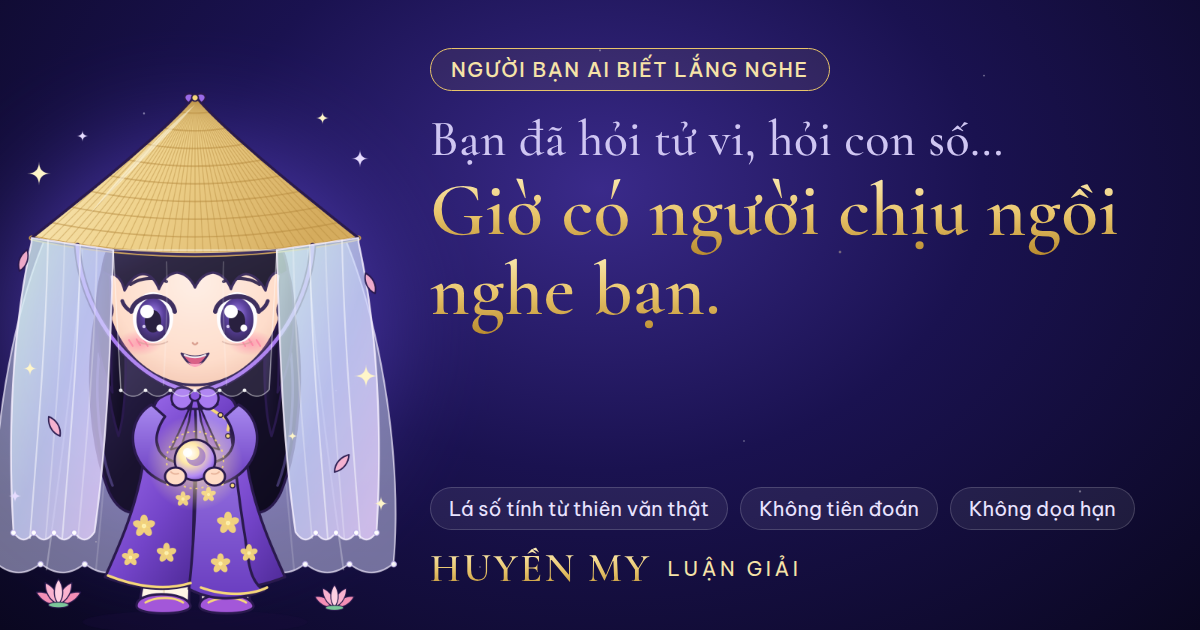
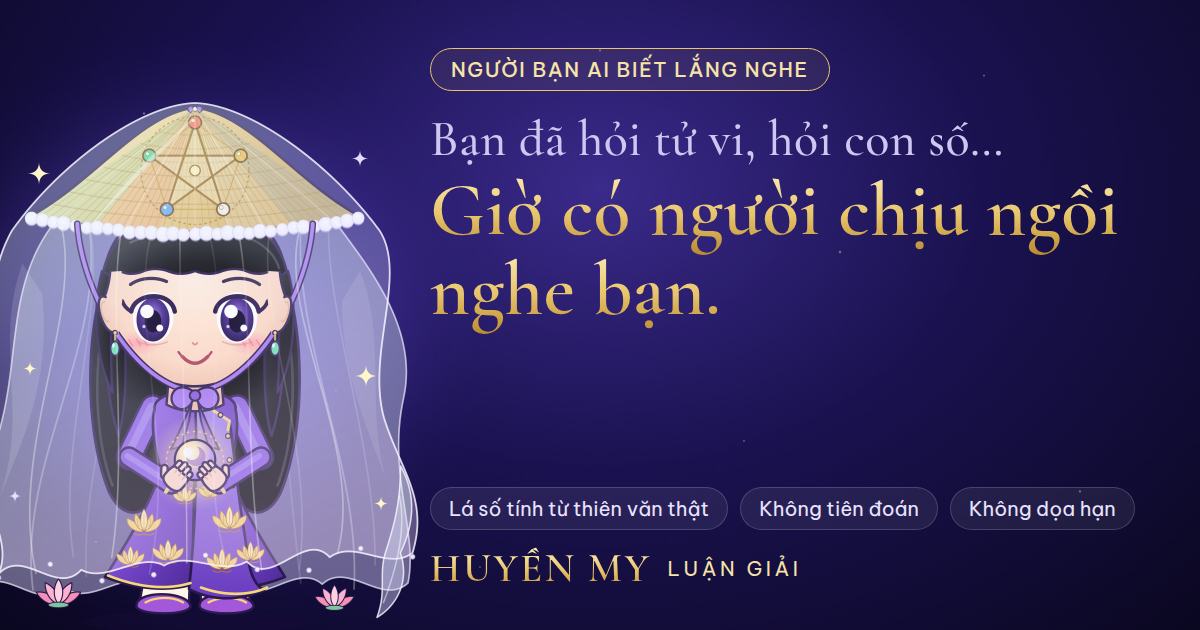
Nút Quản trị tự hiện cho tài khoản admin; ảnh chia sẻ dùng mô hình Huyền My mới
- Thanh trên có nút ⚙ và hộp thoại tài khoản có nút Trang quản trị khi role là admin.
- Email vừa thêm vào ADMIN_EMAILS được nâng quyền ngay ở phiên đang đăng nhập, không cần đăng nhập lại.
- Ảnh og dựng lại bằng mô hình huyenmy-rig hiện tại.

Claude-Session: https://claude.ai/code/session_01DdHvhtxDLv1DKGTrvNhba3

Changed region(s): [[0.0, 0.1508, 0.37, 0.9952]]

diff --git a/src/main.js b/src/main.js
@@ -36,6 +36,8 @@ const sleep = (ms) => new Promise((r) => setTimeout(r, ms));
 // ---------------- trạng thái ----------------
 let S = { profile: null, messages: [], phase: 'intro' };
 let ACCOUNT = { accounts: false, user: null, refCode: '' }, syncTimer = 0;
+/** Tài khoản quản trị tự có nút ⚙ ở thanh trên để vào trang quản trị. */
+const showAdmin = () => { const a = document.getElementById('btn-admin'); if (a) a.hidden = ACCOUNT.user?.role !== 'admin'; };
 const save = () => { try { localStorage.setItem(STORE, JSON.stringify(S)); } catch {} scheduleSync(); };
 /** Người dùng đã đăng nhập và đồng ý lưu: đẩy trạng thái lên máy chủ (chỉ hồ sơ, tin nhắn và nhịp buổi), gom 8 giây một lần. */
 function scheduleSync() {
@@ -356,7 +358,7 @@ function buildSignup(host, { title, done, canSkip = true }) {
     const r = await apiJson('/api/auth/verify', 'POST', { email: email.value, code: code.value, consentMemory: wantsMemory, remind: remind.checked });
     ok.disabled = false;
     if (!r.ok) { msg.textContent = r.error || 'Chưa xác nhận được.'; return; }
-    ACCOUNT.user = r.user; track('signup_verified', { isNew: !!r.isNew });
+    ACCOUNT.user = r.user; showAdmin(); track('signup_verified', { isNew: !!r.isNew });
     // Tài khoản cũ đăng nhập trên thiết bị mới: nạp lại hồ sơ và cuộc trò chuyện đã lưu, không hỏi lại từ đầu. Phải xong trước khi máy này kịp ghi đè bản đã lưu.
     if (!r.isNew && r.user.consentMemory && await restoreFromServer()) { msg.textContent = 'My nhận ra bạn rồi, đang lấy lại cuộc trò chuyện…'; setTimeout(() => location.reload(), 600); return; }
     if (wantsMemory) { ACCOUNT.user.consentMemory = true; scheduleSync(); }
@@ -423,9 +425,10 @@ function openAccount() {
     card.append(h('p', { className: 'su-title', textContent: u.email }),
       h('p', { className: 'su-sub', textContent: u.consentMemory ? 'My đang lưu cuộc trò chuyện của bạn trên máy chủ để bạn tiếp tục ở mọi thiết bị.' : 'My chỉ nhớ bạn trên thiết bị này.' }),
       h('div', { className: 'su-actions' },
+        ...(u.role === 'admin' ? [h('a', { className: 'btn primary', href: '/admin', textContent: 'Trang quản trị' })] : []),
         h('button', { className: 'btn', textContent: u.consentMemory ? 'Tắt lưu và xóa bản đã lưu' : 'Bật lưu cuộc trò chuyện', onclick: async () => { const want = !u.consentMemory; const r = await apiJson('/api/state', 'PUT', want ? { consentMemory: true, state: S } : { consentMemory: false }); if (r.ok || !want) { u.consentMemory = want; } render(); } }),
         h('button', { className: 'btn', textContent: u.remind ? 'Tắt email nhắc quay lại' : 'Bật email nhắc quay lại', onclick: async () => { const r = await apiJson('/api/account/remind', 'POST', { on: !u.remind }); if (r.ok) { u.remind = r.remind; render(); } } }),
-        h('button', { className: 'btn', textContent: 'Đăng xuất', onclick: async () => { await apiJson('/api/auth/logout', 'POST'); ACCOUNT.user = null; close(); } }),
+        h('button', { className: 'btn', textContent: 'Đăng xuất', onclick: async () => { await apiJson('/api/auth/logout', 'POST'); ACCOUNT.user = null; showAdmin(); close(); } }),
         h('button', { className: 'btn danger', textContent: 'Xóa tài khoản và dữ liệu', onclick: (e) => { if (e.target.dataset.sure) { apiJson('/api/account/delete', 'POST').then(() => { ACCOUNT.user = null; try { localStorage.removeItem(STORE); } catch {} location.reload(); }); } else { e.target.dataset.sure = '1'; e.target.textContent = 'Bấm lần nữa để xác nhận xóa'; } } })));
   };
   render();
@@ -669,7 +672,7 @@ const urlRef = (new URLSearchParams(location.search).get('ref') ?? '').replace(/
 track('landing_view', { ref: urlRef });
 const meReady = fetch('/api/me' + (urlRef ? `?ref=${urlRef}` : '')).then((r) => r.json()).then(async (me) => {
   ACCOUNT = { accounts: !!me.accounts, user: me.user ?? null, refCode: me.refCode ?? '' };
-  $('#btn-account').hidden = !ACCOUNT.accounts;
+  $('#btn-account').hidden = !ACCOUNT.accounts; showAdmin();
   $('#veil-login').hidden = !ACCOUNT.accounts || !!ACCOUNT.user;
   // Đăng nhập trên thiết bị mới: lấy lại cuộc trò chuyện đã lưu nếu người dùng đã đồng ý.
   if (ACCOUNT.user?.consentMemory && await restoreFromServer()) offerResume();

diff --git a/server/auth.js b/server/auth.js
@@ -89,7 +89,11 @@ export function createAuth({ db, pepper, adminEmails = [], mailer = sendMail, no
   function fromToken(token) {
     if (!token) return null;
     const row = db.prepare('SELECT u.* FROM sessions s JOIN users u ON u.id = s.user_id WHERE s.token_hash = ? AND s.expires > ?').get(sha(token), now());
-    return row ? publicUser(row) : null;
+    if (!row) return null;
+    // Email vừa được thêm vào ADMIN_EMAILS: nâng quyền ngay, không cần đăng nhập lại.
+    const want = admins.has(normEmail(row.email)) ? 'admin' : row.role;
+    if (want !== row.role) { db.prepare('UPDATE users SET role = ? WHERE id = ?').run(want, row.id); row.role = want; }
+    return publicUser(row);
   }
   const logout = (token) => { if (token) db.prepare('DELETE FROM sessions WHERE token_hash = ?').run(sha(token)); };
   function deleteAccount(userId) {

diff --git a/index.html b/index.html
@@ -58,6 +58,7 @@
       <span id="clock" class="badge" hidden title="Thời gian còn lại của buổi này"></span>
       <button id="btn-sound" class="icon" aria-label="Nhạc nền" title="Nhạc nền" aria-pressed="false">♪</button>
       <button id="btn-pace" class="icon" aria-label="Nhịp đọc" title="Nhịp đọc">›</button>
+      <a id="btn-admin" class="icon" href="/admin" hidden aria-label="Trang quản trị" title="Trang quản trị">⚙</a>
       <button id="btn-account" class="icon" hidden aria-label="Tài khoản" title="Tài khoản">☺</button>
       <button id="btn-chart" class="icon" hidden aria-label="Xem lá số" title="Lá số của bạn">☯</button>
       <button id="btn-reset" class="icon" aria-label="Bắt đầu lại" title="Bắt đầu lại">↺</button>

diff --git a/src/style.css b/src/style.css
@@ -283,3 +283,4 @@ body.veil-on .topbar { opacity: 0; visibility: hidden; pointer-events: none; }
 .su-legal { margin: 8px 2px 0; font-size: 12px; line-height: 1.5; color: #9a92bd; } .su-legal a { color: #e2c27d; text-underline-offset: 3px; }
 
 .veil-login { margin-top: 14px; padding: 6px 10px; border: 0; background: none; color: #e2c27d; font: inherit; font-size: 13.5px; text-decoration: underline; text-underline-offset: 4px; cursor: pointer; }
+a.btn, a.icon { text-decoration: none; color: inherit; display: inline-flex; align-items: center; justify-content: center; }
